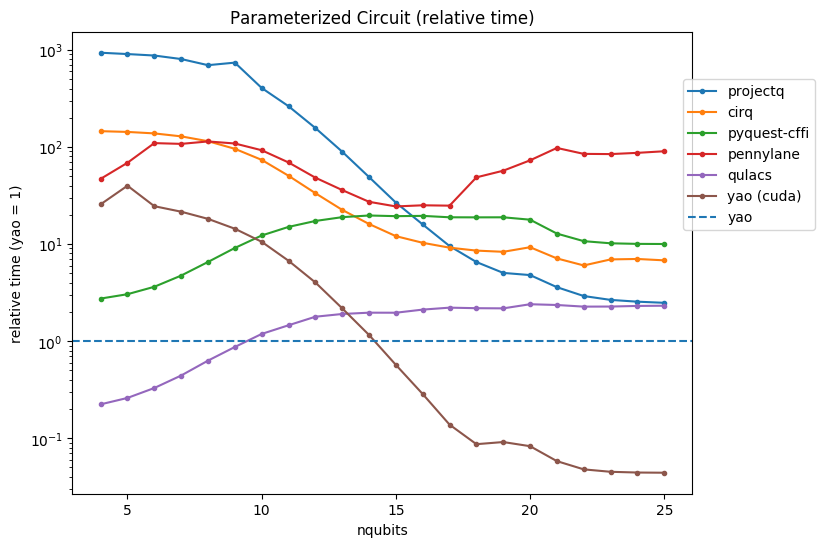
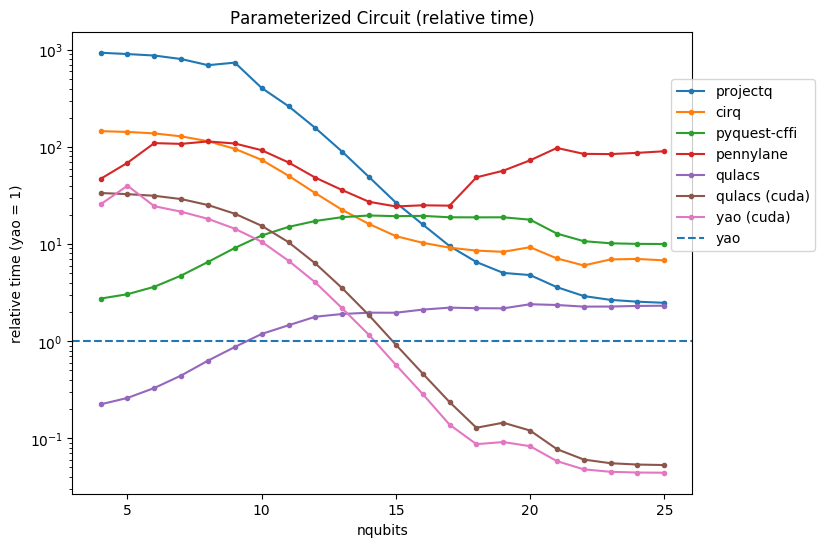
update plot

Changed region(s): [[0.8182, 0.1554, 1.0, 0.4662], [0.1212, 0.3419, 0.8182, 0.8702]]

diff --git a/bin/utils/plot_utils.py b/bin/utils/plot_utils.py
@@ -58,6 +58,10 @@ def parse_data(packages, labels=['X', 'H', 'T', 'CNOT', 'Toffoli']):
                 gate_data['yao (cuda)'] = pd_data[['nqubits', 'QCBM_cuda_batch']].rename(columns={'QCBM_cuda_batch' : 'QCBM (batch)'})
             else:
                 gate_data[each_package] = pd.read_csv(os.path.join(ROOT_PATH, 'yao.csv'))
+        elif each_package == 'qulacs':
+            if len(labels) == 1 and 'QCBM' in labels:
+                gate_data['qulacs'] = wash_benchmark_data(each_package, ['QCBM'])
+                gate_data['qulacs (cuda)'] = wash_benchmark_data(each_package, ['QCBM (cuda)']).rename(columns={'QCBM (cuda)': 'QCBM'})
         else:
             gate_data[each_package] = wash_benchmark_data(each_package, labels)
 
